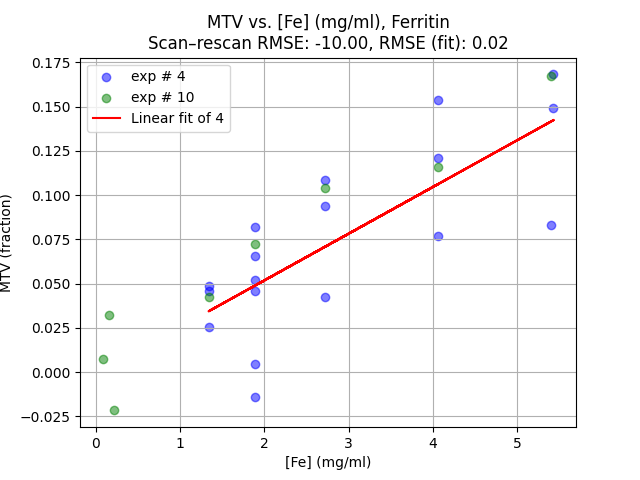
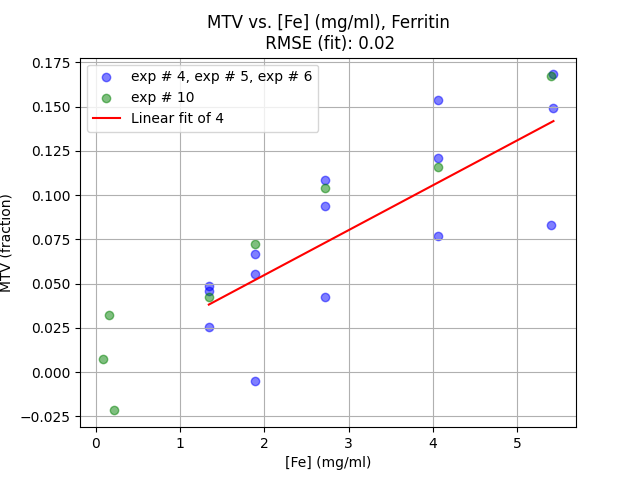
k fold works!

diff --git a/hello.py b/hello.py
@@ -15,6 +15,8 @@ import matplotlib.pyplot as plt
 import seaborn as sns
 import os
 from toolBox import *
+from sklearn.metrics import mean_squared_error
+
 
 def extract_zero_com_exp(exp = 1, data = None, lipid = False):
     """
@@ -29,6 +31,26 @@ def extract_zero_com_exp(exp = 1, data = None, lipid = False):
     else:
         return data[(data['ExpNum'] == exp) & (data['Lipid (fraction)'] == 0)]
 
+
+
+
+def group_and_mean(data_1, data_2, column_name):
+    # Group by ExpNum and column_name, calculating the mean for only the qMRI_params columns
+    data_1_qMRI = data_1.groupby(["ExpNum", column_name], as_index=False)[qMRI_params].mean(numeric_only=True)
+    data_2_qMRI = data_2.groupby(["ExpNum", column_name], as_index=False)[qMRI_params].mean(numeric_only=True)
+
+    # Keep non-numeric columns (if any), retaining the first value for each group (or you can use .last() instead)
+    non_qMRI_columns = [col for col in data_1.columns if col not in qMRI_params]
+
+    # Group by ExpNum and column_name, and take the first value for non-numeric columns
+    data_1_non_qMRI = data_1.groupby(["ExpNum", column_name], as_index=False)[non_qMRI_columns].first()
+    data_2_non_qMRI = data_2.groupby(["ExpNum", column_name], as_index=False)[non_qMRI_columns].first()
+
+    # Merge the mean qMRI_params with the non-numeric columns
+    data_1_final = pd.merge(data_1_qMRI, data_1_non_qMRI, on=["ExpNum", column_name])
+    data_2_final = pd.merge(data_2_qMRI, data_2_non_qMRI, on=["ExpNum", column_name])
+    return data_1_final, data_2_final
+
 def handle_duplicates_and_sort(data_1, data_2, lipid=True):
     """
     Handles duplicates and sorts data by Lipid fraction or Fe values.
@@ -38,24 +60,20 @@ def handle_duplicates_and_sort(data_1, data_2, lipid=True):
     :param lipid: Boolean flag to choose column (True for Lipid fraction, False for Fe)
     :return: Processed data_1 and data_2
     """
-    # Print first 6 columns of data_1 and data_2
-    print(f"data_1: \n{data_1.iloc[:, :6]}.\n data_2: \n{data_2.iloc[:, :6]}")
-
     subset = {True: ['Lipid (fraction)'], False: ['[Fe] (mg/ml)']}
     column_name = subset[lipid][0]  # Extract the correct column name
+    
 
-    # Drop duplicates based on the selected column
-    data_1 = data_1.drop_duplicates(subset=column_name, keep='first')
-    data_2 = data_2.drop_duplicates(subset=column_name, keep='first')
+    data_1, data_2 = group_and_mean(data_1, data_2, column_name)
 
-    # Ensure both datasets have rows in common based on the selected column
-    common_values = pd.merge(data_1, data_2, on=column_name, how='inner')[column_name]
+    # # Ensure both datasets have rows in common based on the selected column
+    # common_values = pd.merge(data_1, data_2, on=column_name, how='inner')[column_name]
 
-    # Filter to keep only common values
-    data_1 = data_1[data_1[column_name].isin(common_values)]
-    data_2 = data_2[data_2[column_name].isin(common_values)]
+    # # Filter to keep only common values
+    # data_1 = data_1[data_1[column_name].isin(common_values)]
+    # data_2 = data_2[data_2[column_name].isin(common_values)]
 
-    print(f"Filtered data_1: \n{data_1}.\nFiltered data_2: \n{data_2}")
+    # print(f"Filtered data_1: \n{data_1}.\nFiltered data_2: \n{data_2}")
 
     # Sort datasets by the selected column
     data_1 = data_1.sort_values(by=column_name)
@@ -106,7 +124,7 @@ def calc_scan_rescan_rmse(data, data_2, R1):
     scan_rescan_rmse = np.sqrt(np.mean((data[R1].values - data_2[R1].values) ** 2))
     return scan_rescan_rmse
 
-def plot_qMRI_to_bio(data, data_2, R1, lipid = True):
+def plot_qMRI_to_bio(data, data_2, R1, exps_pair,i,lipid = True):
     if lipid:
         tissue_col = "Lipid (fraction)"
         tissue_type = data["Lipid type"].iloc[0]
@@ -128,27 +146,36 @@ def plot_qMRI_to_bio(data, data_2, R1, lipid = True):
     scatter1 = plt.scatter(x, y, alpha=0.5, color='blue')  # Data 1
     scatter2 = plt.scatter(data_2[tissue_col], data_2[R1], alpha=0.5, color='green')  # Data 2
     line = plt.plot(x, linear_fit(x), color='red')  # Regression line
-
+    print(f"{tissue_type} ################################")
     # Add legend manually
-    plt.legend([scatter1, scatter2, line[0]], [f"exp # {data["ExpNum"].iloc[0]}", f"exp # {data_2["ExpNum"].iloc[0]}", f"Linear fit of {data["ExpNum"].iloc[0]}"])
+    others = [x for x in range(len(exps_pair)) if x != i]
+    # Create a string of experiment numbers from `others`, joined by commas
+    others_str = ', '.join([f"exp # {exps_pair[x]}" for x in others])
+    plt.legend([scatter1, scatter2, line[0]], [f"{others_str}", f"exp # {exps_pair[i]}", f"Linear fit of {data["ExpNum"].iloc[0]}"])
 
     # Labels and title
     plt.xlabel(tissue_col)
     plt.ylabel(R1)
 
-    # Compute RMSEs
+
+    # Calculate RMSEs
     scan_rescan_rmse = calc_scan_rescan_rmse(data, data_2, R1)
 
-    y_predicted = linear_fit(data_2[tissue_col])
-    rmse_fitted = np.sqrt(np.mean((data_2[R1].values - y_predicted) ** 2))
+    y_on_line = linear_fit(data_2[tissue_col])  # The "ideal" y values on the line
+    y_actual = data_2[R1]
+    print(f"{R1}, {y_actual}, {y_on_line}, tissue_col: {tissue_col}")
+    if len(y_actual) == 0 or len(y_on_line) == 0:
+        rmse_fitted = -10
+    else:
+        rmse_fitted = np.sqrt(mean_squared_error(y_actual, y_on_line))
 
     # Print RMSEs
     print(f'RMSE for the fitted line (data_1): {rmse_fitted:.4f}')
-    print(f'Scan–rescan RMSE: {scan_rescan_rmse:.4f}')
+    # print(f'Scan–rescan RMSE: {scan_rescan_rmse:.4f}')
 
     param_name = R1.split(" ")[0]
     # Final plot details
-    plt.title(f'{param_name} vs. {tissue_col}, {tissue_type}\nScan–rescan RMSE: {scan_rescan_rmse:.2f}, RMSE (fit): {rmse_fitted:.2f}')
+    plt.title(f'{param_name} vs. {tissue_col}, {tissue_type}\n RMSE (fit): {rmse_fitted:.2f}')
     plt.grid(True)
 
     to_show = {True: 'Lipid type', False: 'Iron type'}
@@ -188,6 +215,7 @@ def run_test_retest(data,exps_pair,MRI_param = 'R1 (1/sec)',lipid = True):
     )
     for i in range(len(exps_pair)):
         # define data_2 as the i experiment
+
         data_2 = extract_zero_com_exp(exps_pair[i], data, lipid)
         # create data_1 from all other experiments except i
         data_1_list = [
@@ -196,11 +224,11 @@ def run_test_retest(data,exps_pair,MRI_param = 'R1 (1/sec)',lipid = True):
         ]
         data_1 = pd.concat(data_1_list, ignore_index=True)
 
-        # data_1,data_2 = handle_duplicates_and_sort(data_1, data_2,lipid)
+        data_1,data_2 = handle_duplicates_and_sort(data_1, data_2,lipid)
         for param in qMRI_params:
-            rmse_fitted, scan_rescan_rmse =  plot_qMRI_to_bio(data_1, data_2, param, lipid = lipid)
+            rmse_fitted, scan_rescan_rmse =  plot_qMRI_to_bio(data_1, data_2, param, exps_pair,i, lipid = lipid)
             rmse_table.loc[param, "Fitted RMSE"] += rmse_fitted
-            rmse_table.loc[param, "Scan-Rescan RMSE"] += scan_rescan_rmse
+            # rmse_table.loc[param, "Scan-Rescan RMSE"] += scan_rescan_rmse
             print(rmse_table)
 
     rmse_table /= len(exps_pair)
@@ -216,7 +244,7 @@ def run_test_retest(data,exps_pair,MRI_param = 'R1 (1/sec)',lipid = True):
 if __name__ == "__main__":
     # # Read the data file into a pandas dataframe
     data = pd.read_excel('data.xlsx', sheet_name=0)
-    exp_lipid_all_to_check  = [PC_Cholest_all,PC_SM_all,PC_all]
+    exp_lipid_all_to_check  = [PC_all,PC_Cholest_all,PC_SM_all]
     exp_iron_all_to_check = [Fe2_all, Fe3_all, Ferittin_all, Tranferrin_all]
 
 

diff --git a/toolBox.py b/toolBox.py
@@ -6,8 +6,8 @@ PC_pair = (2,5)
 
 #lipid set to check
 PC_Cholest_all = [1,6,12]
-PC_SM_all = [3,4,7,9,10,11,13,14]
-PC_all = [2,5,15]
+PC_SM_all = [3,4,7,9,10,13]
+PC_all = [2,5]
 
 
 
